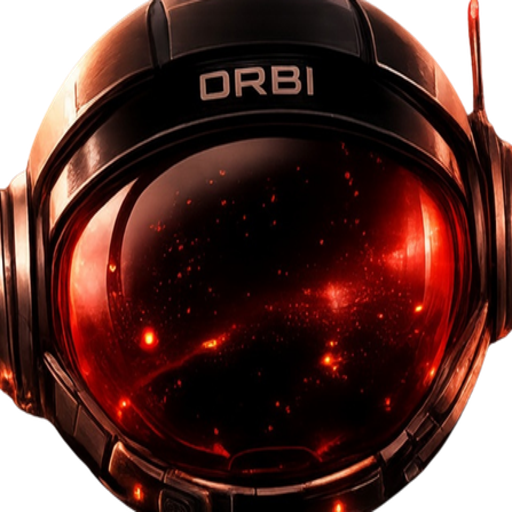
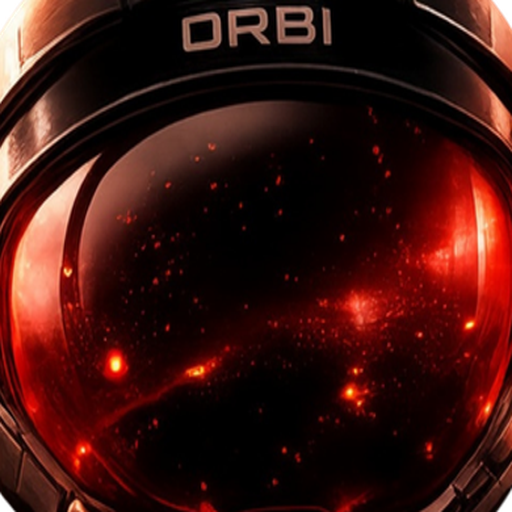
Add files via upload

diff --git a/styles/app-home-v118.css b/styles/app-home-v118.css
@@ -12727,49 +12727,19 @@ body.dict-modal-open > .bastion-floating-tooltip.is-visible {
 
 
 
-/* v356 — REAL top-left ORBI avatar tuning.
-   The visible ORBI avatar in the corner panel uses .b116-panel__avatar,
-   not .avatar-orbi. This patch targets ONLY the left ORBI panel.
-   Lavash/right panel, panel frames, text and geometry stay untouched. */
 
-.b116-panel--left .b116-panel__avatar-wrap {
-  overflow: hidden !important;
-}
 
+/* v361 — ORBI avatar final display.
+   Main fix is the updated ORBI PNG asset with reduced inner padding.
+   This CSS only keeps the left ORBI image centered; Lavash/right panel is untouched. */
 .b116-panel--left .b116-panel__avatar {
   width: 100% !important;
   height: 100% !important;
-  max-width: none !important;
-  max-height: none !important;
+  margin: 0 !important;
+  padding: 0 !important;
   object-fit: cover !important;
   object-position: center center !important;
-  transform-origin: center center !important;
-  transform: translateX(1px) translateY(0px) scale(1.28) !important;
-  filter: drop-shadow(0 0 10px rgba(255, 42, 35, .92)) !important;
-}
-
-/* If an inner soft ring around ORBI visually limits the avatar, make it less dominant only in the left panel. */
-.b116-panel--left .b116-panel__avatar-wrap::after {
-  opacity: .55 !important;
-}
-
-
-/* v358 — ORBI avatar final asset-fit.
-   The ORBI image asset was cropped to remove internal transparent padding.
-   Only the real top-left ORBI image is adjusted; Lavash/right panel stays untouched. */
-.b116-panel--left .b116-panel__avatar {
-  width: 100% !important;
-  height: 100% !important;
-  object-fit: cover !important;
-  object-position: center center !important;
-  transform: translateX(1px) scale(1.08) !important;
+  transform: translateX(1px) scale(1.04) !important;
   transform-origin: center center !important;
   border-radius: 50% !important;
-}
-
-
-/* v359 ORBI boost */
-.b116-panel--left .b116-panel__avatar{
- transform: translateX(1px) scale(1.18) !important;
- object-position:center center !important;
 }

diff --git a/pages/analysis.html b/pages/analysis.html
@@ -5,7 +5,7 @@
   <meta name="viewport" content="width=device-width, initial-scale=1.0" />
   <title>BASTION — Аналіз</title>
   <link rel="icon" type="image/svg+xml" href="../assets/logo/bastion-favicon.svg?v=117" />
-  <link rel="stylesheet" href="../styles/app-home-v118.css?v=359" />
+  <link rel="stylesheet" href="../styles/app-home-v118.css?v=361" />
   <link rel="stylesheet" href="../styles/analysis-core.css?v=304" />
 </head>
 <body class="bastion-core-page" data-active-module="">
@@ -59,7 +59,7 @@
     <section class="b116-panel b116-panel--left">
       <img class="b116-panel__bg" src="../assets/ui/hud-panel-frame-v116.png?v=116" alt="" />
       <div class="b116-panel__avatar-box">
-        <img class="b116-panel__avatar" src="../assets/ui/orbi-avatar-v116.png?v=359" alt="" />
+        <img class="b116-panel__avatar" src="../assets/ui/orbi-avatar-v116.png?v=361" alt="" />
       </div>
       <div class="b116-panel__text">
         <strong>ОРБІ</strong>

diff --git a/pages/app.html b/pages/app.html
@@ -6,7 +6,7 @@
   <title>BASTION — Core</title>
   <link rel="icon" type="image/svg+xml" href="../assets/logo/bastion-favicon.svg?v=117" />
   <script src="../scripts/theme-boot.js?v=1"></script>
-  <link rel="stylesheet" href="../styles/app-home-v118.css?v=359" />
+  <link rel="stylesheet" href="../styles/app-home-v118.css?v=361" />
   <link rel="stylesheet" href="../styles/bastion-preloader.css?v=340" />
 </head>
 <body class="bastion-core-page" data-active-module="">
@@ -69,7 +69,7 @@
     <section class="b116-panel b116-panel--left">
       <img class="b116-panel__bg" src="../assets/ui/hud-panel-frame-v116.png?v=116" alt="" />
       <div class="b116-panel__avatar-box">
-        <img class="b116-panel__avatar" src="../assets/ui/orbi-avatar-v116.png?v=359" alt="" />
+        <img class="b116-panel__avatar" src="../assets/ui/orbi-avatar-v116.png?v=361" alt="" />
       </div>
       <div class="b116-panel__text">
         <strong>ОРБІ</strong>

diff --git a/pages/calculator.html b/pages/calculator.html
@@ -5,7 +5,7 @@
   <meta name="viewport" content="width=device-width, initial-scale=1.0" />
   <title>BASTION — Калькулятор</title>
   <link rel="icon" type="image/svg+xml" href="../assets/logo/bastion-favicon.svg?v=117" />
-  <link rel="stylesheet" href="../styles/app-home-v118.css?v=359" />
+  <link rel="stylesheet" href="../styles/app-home-v118.css?v=361" />
   <link rel="stylesheet" href="../styles/calculator-core.css?v=279" />
 </head>
 <body class="bastion-core-page" data-active-module="">
@@ -59,7 +59,7 @@
     <section class="b116-panel b116-panel--left">
       <img class="b116-panel__bg" src="../assets/ui/hud-panel-frame-v116.png?v=116" alt="" />
       <div class="b116-panel__avatar-box">
-        <img class="b116-panel__avatar" src="../assets/ui/orbi-avatar-v116.png?v=359" alt="" />
+        <img class="b116-panel__avatar" src="../assets/ui/orbi-avatar-v116.png?v=361" alt="" />
       </div>
       <div class="b116-panel__text">
         <strong>ОРБІ</strong>

diff --git a/pages/command.html b/pages/command.html
@@ -5,7 +5,7 @@
   <meta name="viewport" content="width=device-width, initial-scale=1.0" />
   <title>BASTION — Висновки</title>
   <link rel="icon" type="image/svg+xml" href="../assets/logo/bastion-favicon.svg?v=117" />
-  <link rel="stylesheet" href="../styles/app-home-v118.css?v=359" />
+  <link rel="stylesheet" href="../styles/app-home-v118.css?v=361" />
   <link rel="stylesheet" href="../styles/command-core.css?v=337" />
 </head>
 <body class="bastion-core-page" data-active-module="">
@@ -59,7 +59,7 @@
     <section class="b116-panel b116-panel--left">
       <img class="b116-panel__bg" src="../assets/ui/hud-panel-frame-v116.png?v=116" alt="" />
       <div class="b116-panel__avatar-box">
-        <img class="b116-panel__avatar" src="../assets/ui/orbi-avatar-v116.png?v=359" alt="" />
+        <img class="b116-panel__avatar" src="../assets/ui/orbi-avatar-v116.png?v=361" alt="" />
       </div>
       <div class="b116-panel__text">
         <strong>ОРБІ</strong>

diff --git a/pages/dicts.html b/pages/dicts.html
@@ -7,7 +7,7 @@
   <link href="https://fonts.googleapis.com/css2?family=Orbitron:wght@500;600;700;800&family=Rajdhani:wght@500;600;700&display=swap" rel="stylesheet" />
   <link rel="icon" type="image/svg+xml" href="../assets/logo/bastion-favicon.svg?v=117" />
   <script src="../scripts/theme-boot.js?v=1"></script>
-  <link rel="stylesheet" href="../styles/app-home-v118.css?v=359" />
+  <link rel="stylesheet" href="../styles/app-home-v118.css?v=361" />
   <link rel="stylesheet" href="../styles/bastion-preloader.css?v=340" />
   <link rel="stylesheet" href="../styles/dicts.css?v=209" />
 </head>
@@ -71,7 +71,7 @@
     <section class="b116-panel b116-panel--left">
       <img class="b116-panel__bg" src="../assets/ui/hud-panel-frame-v116.png?v=116" alt="" />
       <div class="b116-panel__avatar-box">
-        <img class="b116-panel__avatar" src="../assets/ui/orbi-avatar-v116.png?v=359" alt="" />
+        <img class="b116-panel__avatar" src="../assets/ui/orbi-avatar-v116.png?v=361" alt="" />
       </div>
       <div class="b116-panel__text">
         <strong>ОРБІ</strong>

diff --git a/pages/nodes.html b/pages/nodes.html
@@ -6,7 +6,7 @@
   <title>BASTION — Зв’язки / Вузли</title>
   <link rel="icon" type="image/svg+xml" href="../assets/logo/bastion-favicon.svg?v=117" />
   <script src="../scripts/theme-boot.js?v=1"></script>
-  <link rel="stylesheet" href="../styles/app-home-v118.css?v=359" />
+  <link rel="stylesheet" href="../styles/app-home-v118.css?v=361" />
   <link rel="stylesheet" href="../styles/bastion-preloader.css?v=340" />
   <link rel="stylesheet" href="../styles/nodes.css?v=012" />
 </head>
@@ -70,7 +70,7 @@
     <section class="b116-panel b116-panel--left">
       <img class="b116-panel__bg" src="../assets/ui/hud-panel-frame-v116.png?v=116" alt="" />
       <div class="b116-panel__avatar-box">
-        <img class="b116-panel__avatar" src="../assets/ui/orbi-avatar-v116.png?v=359" alt="" />
+        <img class="b116-panel__avatar" src="../assets/ui/orbi-avatar-v116.png?v=361" alt="" />
       </div>
       <div class="b116-panel__text">
         <strong>ОРБІ</strong>

diff --git a/pages/upload.html b/pages/upload.html
@@ -5,7 +5,7 @@
   <meta name="viewport" content="width=device-width, initial-scale=1.0" />
   <title>BASTION — Завантаження</title>
   <link rel="icon" type="image/svg+xml" href="../assets/logo/bastion-favicon.svg?v=117" />
-  <link rel="stylesheet" href="../styles/app-home-v118.css?v=359" />
+  <link rel="stylesheet" href="../styles/app-home-v118.css?v=361" />
   <link rel="stylesheet" href="../styles/bastion-preloader.css?v=340" />
   <link rel="stylesheet" href="../styles/upload-core.css?v=257" />
 </head>
@@ -69,7 +69,7 @@
     <section class="b116-panel b116-panel--left">
       <img class="b116-panel__bg" src="../assets/ui/hud-panel-frame-v116.png?v=116" alt="" />
       <div class="b116-panel__avatar-box">
-        <img class="b116-panel__avatar" src="../assets/ui/orbi-avatar-v116.png?v=359" alt="" />
+        <img class="b116-panel__avatar" src="../assets/ui/orbi-avatar-v116.png?v=361" alt="" />
       </div>
       <div class="b116-panel__text">
         <strong>ОРБІ</strong>